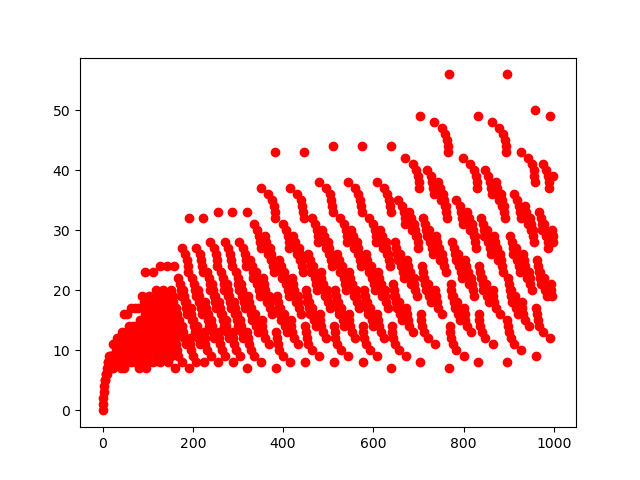
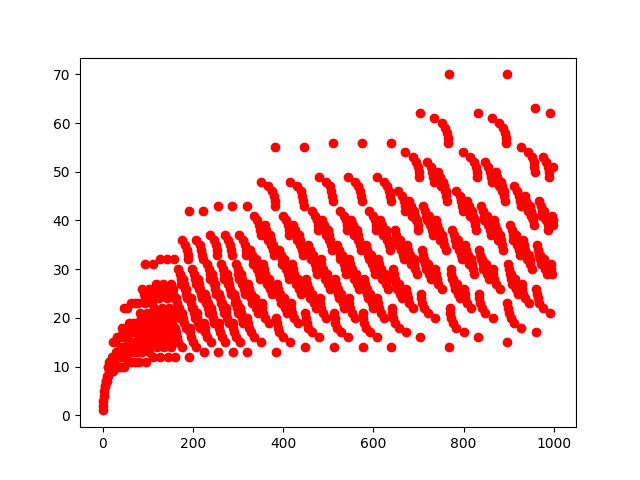
bug fix, added requirements.txt

diff --git a/calc.py b/calc.py
@@ -14,6 +14,7 @@ def isPrime(n):
 def isOdd(n):
     return False if n % 2 == 0 else True
 
+# ineteger complexities for the first nine values
 class Comp(Enum):
     ZERO=0
     ONE=1
@@ -68,7 +69,7 @@ def leastFactors(n):
     return [f1, f2]
 
 
-def complexity(n, a=0):
+def complexity(n, a=1):
     if n <= 9:
         return compHandle(n)+a
     
@@ -86,6 +87,10 @@ vals = []
 for i in range(1000):
     # print(i, complexity(i))
     plt.plot(i, complexity(i), "ro")
+
+# n = 22
+# print(leastFactors(n))
+# print(n, complexity(n))
 
 # plt.show()
 plt.savefig("dist.png")
